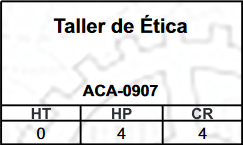
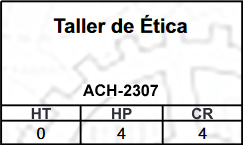
Anadir materias DSW

Changed region(s): [[0.3169, 0.5793, 0.6626, 0.6897]]

diff --git a/index.html b/index.html
@@ -28,6 +28,7 @@
                     <img src="resources/5,0.png">
                     <img src="resources/6,0.png">
                     <img src="resources/7,0.png">
+                    <img src="resources/8,0.png">
                 </p>
                 <p>
                     <img src="resources/0,1.png">
@@ -38,6 +39,7 @@
                     <img src="resources/5,1.png">
                     <img src="resources/6,1.png">
                     <img src="resources/7,1.png">
+                    <img src="resources/8,1.png">
                 </p>
                 <p>
                     <img src="resources/0,2.png">
@@ -48,6 +50,7 @@
                     <img src="resources/5,2.png">
                     <img src="resources/6,2.png">
                     <img src="resources/7,2.png">
+                    <img src="resources/8,2.png">
                 </p>
                 <p>
                     <img src="resources/0,3.png">
@@ -58,6 +61,7 @@
                     <img src="resources/5,3.png">
                     <img src="resources/6,3.png">
                     <img src="resources/7,3.png">
+                    <img src="resources/8,3.png">
                 </p>
                 <p>
                     <img src="resources/0,4.png">
@@ -68,6 +72,7 @@
                     <img src="resources/5,4.png">
                     <img src="resources/6,4.png">
                     <img src="resources/7,4.png">
+                    <img src="resources/8,4.png">
                 </p>
                 <p>
                     <img src="resources/0,5.png">
@@ -78,6 +83,7 @@
                     <img src="resources/5,5.png">
                     <img src="resources/6,5.png">
                     <img src="resources/7,5.png">
+                    <img src="resources/8,5.png">
                 </p>
             </div>
         </div>

diff --git a/scripts/Program.js b/scripts/Program.js
@@ -118,11 +118,11 @@ $(document).ready(function() {
 
             const nivel = niveles[i];
 
-            if (cantidadesDeMaterias[i] % 8 == 0 && cantidadesDeMaterias[i] != 0) {
+            if (cantidadesDeMaterias[i] % 9 == 0 && cantidadesDeMaterias[i] != 0) {
                 $(nivel).find("div").css("height", parseInt($(nivel).find("div").css("height")) + 100 + "px");
                 $(nivel).find("div:last-child p").append("<br>");
             }
-            else if (cantidadesDeMaterias[i] < 9 && cantidadesDeMaterias[i] + 1 > Math.max(...cantidadesDeMaterias)) {
+            else if (cantidadesDeMaterias[i] < 10 && cantidadesDeMaterias[i] + 1 > Math.max(...cantidadesDeMaterias)) {
                 $("#niveles").width($("#niveles").width() + 162);
             }
 
@@ -146,11 +146,11 @@ $(document).ready(function() {
 
                 cantidadesDeMaterias[indiceNivel]--;
 
-                if (cantidadesDeMaterias[indiceNivel] != 0 && cantidadesDeMaterias[indiceNivel] % 8 == 0) {
+                if (cantidadesDeMaterias[indiceNivel] != 0 && cantidadesDeMaterias[indiceNivel] % 9 == 0) {
                     $(nivel).find("div").css("height", parseInt($(nivel).find("div").css("height")) - 100 + "px");
                     $(nivel).find("div:last-child p br:last-of-type").remove();
                 }
-                else if (!cantidadesDeMaterias.includes(cantidadDeMateriasMayor) && cantidadesDeMaterias[indiceNivel] < 8) {
+                else if (!cantidadesDeMaterias.includes(cantidadDeMateriasMayor) && cantidadesDeMaterias[indiceNivel] < 9) {
                     $("#niveles").width($("#niveles").width() - 162);
                 }
             });

diff --git a/styles/styles.css b/styles/styles.css
@@ -80,7 +80,7 @@ a{
 
 #materias{
     height: 678px;
-    width: 1328px;
+    width: 1494px;
 }
 
 .contenedorMaterias img{
